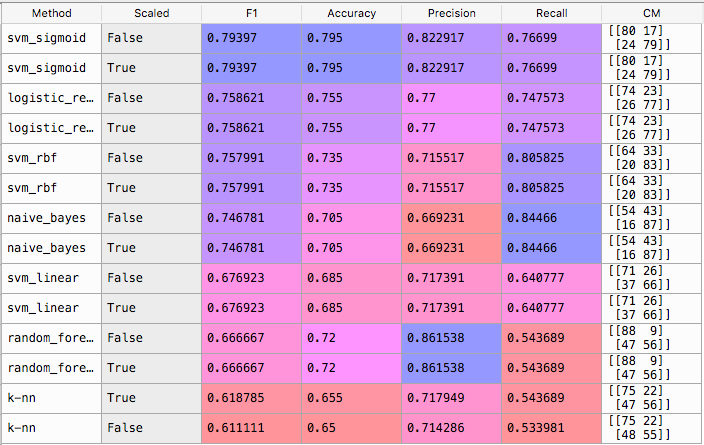
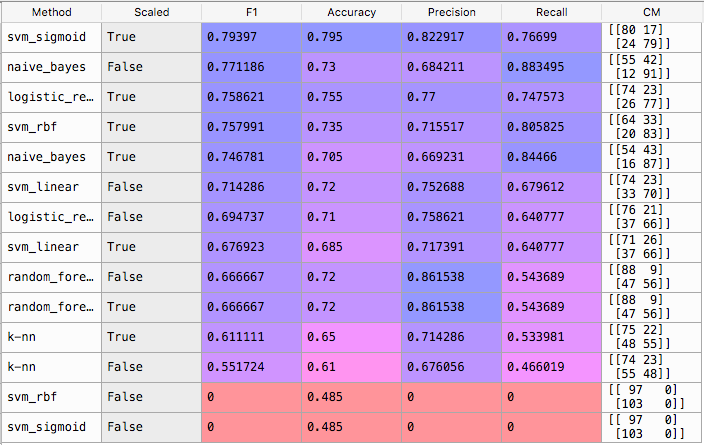
Scaling NOT applied before the range of tests

diff --git a/natural_language_processing_geg.py b/natural_language_processing_geg.py
@@ -60,12 +60,11 @@ X_train, X_test, y_train, y_test = train_test_split(X, y, test_size = 0.20, rand
 
 
 
-# Feature Scaling
-from sklearn.preprocessing import StandardScaler
-sc_X = StandardScaler()
-X_train = sc_X.fit_transform(X_train.astype(float))
-X_test = sc_X.transform(X_test.astype(float))
-
+## Feature Scaling
+#from sklearn.preprocessing import StandardScaler
+#sc_X = StandardScaler()
+#X_train = sc_X.fit_transform(X_train.astype(float))
+#X_test = sc_X.transform(X_test.astype(float))
 
 
 
